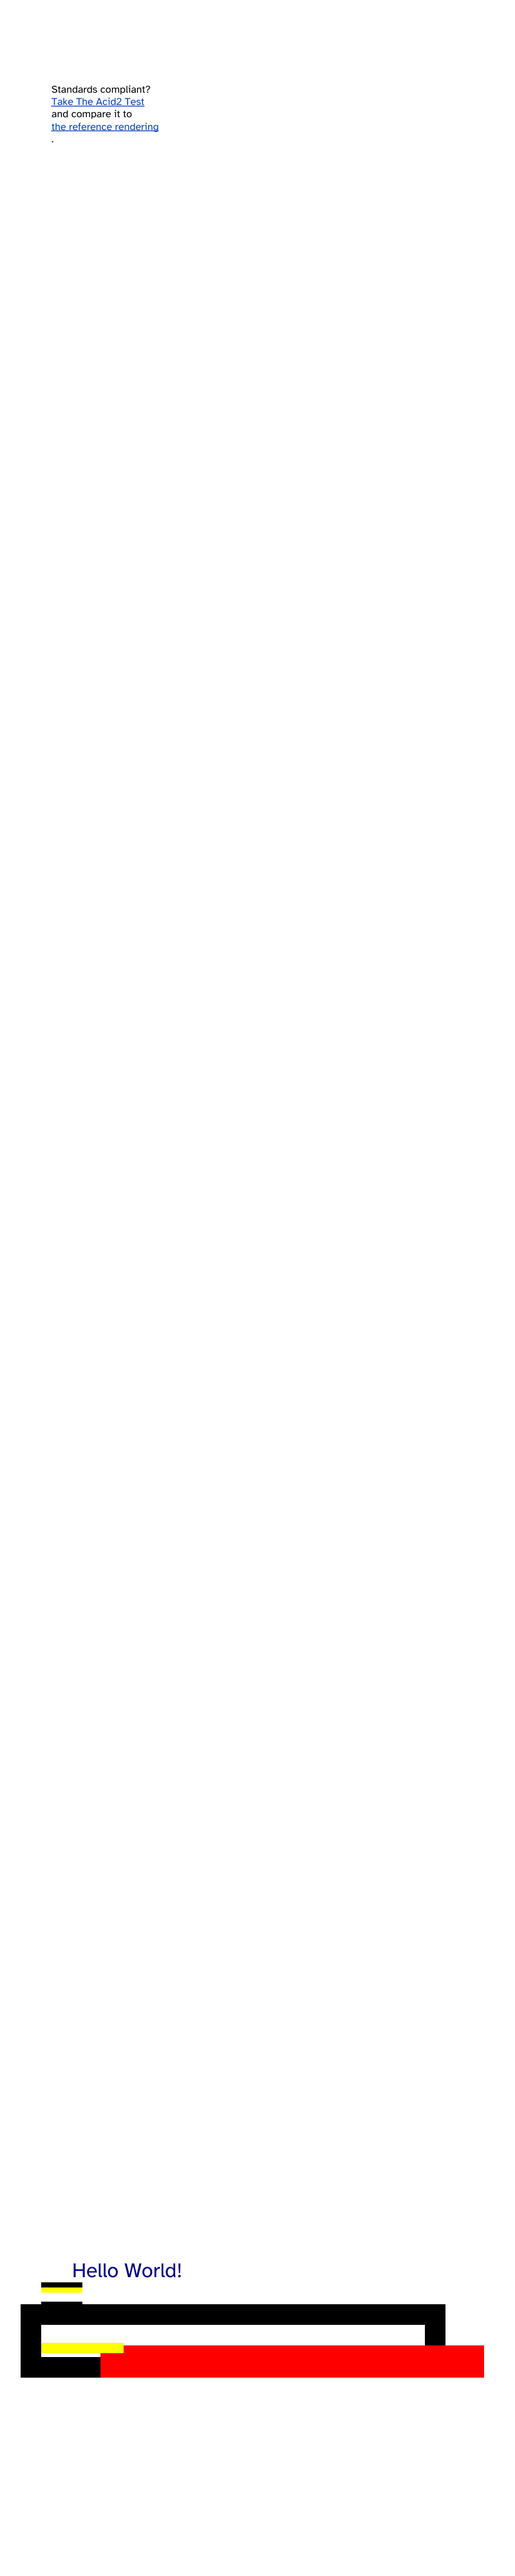
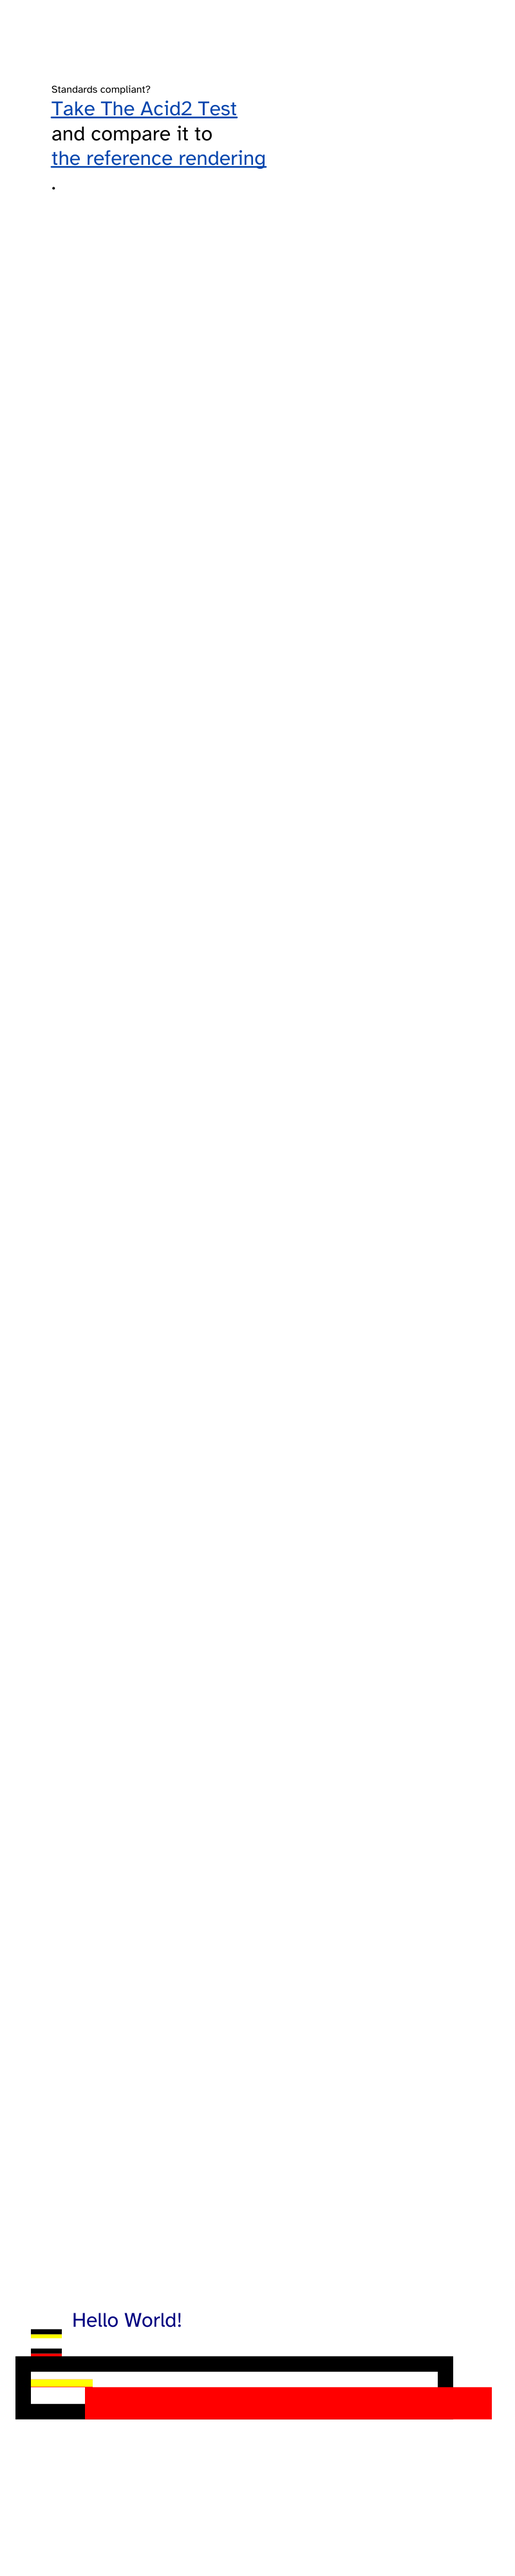
WIP: Acid2 - add CSS property inheritance for inheritable properties
Implement automatic inheritance of CSS properties like color, font-size,
font-family, line-height, text-align, white-space, etc. from parent to
child elements when not explicitly set. This is required for Acid2 where
html { color: red } should cascade to all descendants.

Changed region(s): [[0.0312, 0.875, 0.9688, 0.9375], [0.0938, 0.0312, 0.4688, 0.0625]]

diff --git a/pkg/css/cascade.go b/pkg/css/cascade.go
@@ -186,11 +186,41 @@ func resolveInheritValues(node *html.Node, style *Style, styles map[*html.Node]*
 	}
 }
 
+// inheritableProperties lists CSS properties that inherit from parent to child by default
+var inheritableProperties = map[string]bool{
+	"color": true, "font-family": true, "font-size": true,
+	"font-style": true, "font-weight": true, "font-variant": true,
+	"line-height": true, "text-align": true, "text-decoration": true,
+	"text-transform": true, "text-indent": true, "white-space": true,
+	"visibility": true, "list-style-type": true, "list-style-position": true,
+	"direction": true, "letter-spacing": true, "word-spacing": true,
+	"cursor": true,
+}
+
+// applyInheritedProperties copies inheritable properties from parent if not set on child
+func applyInheritedProperties(node *html.Node, style *Style, styles map[*html.Node]*Style) {
+	if node.Parent == nil {
+		return
+	}
+	parentStyle, ok := styles[node.Parent]
+	if !ok {
+		return
+	}
+	for prop := range inheritableProperties {
+		if _, hasOwn := style.Get(prop); !hasOwn {
+			if parentVal, ok := parentStyle.Get(prop); ok {
+				style.Set(prop, parentVal)
+			}
+		}
+	}
+}
+
 // applyStylesToNode recursively applies styles to a node and its children
 func applyStylesToNode(node *html.Node, stylesheets []*Stylesheet, styles map[*html.Node]*Style, viewportWidth, viewportHeight float64) {
 	if node.Type == html.ElementNode && node.TagName != "document" {
 		style := ComputeStyle(node, stylesheets, viewportWidth, viewportHeight)
 		resolveInheritValues(node, style, styles)
+		applyInheritedProperties(node, style, styles)
 		styles[node] = style
 	}
 
